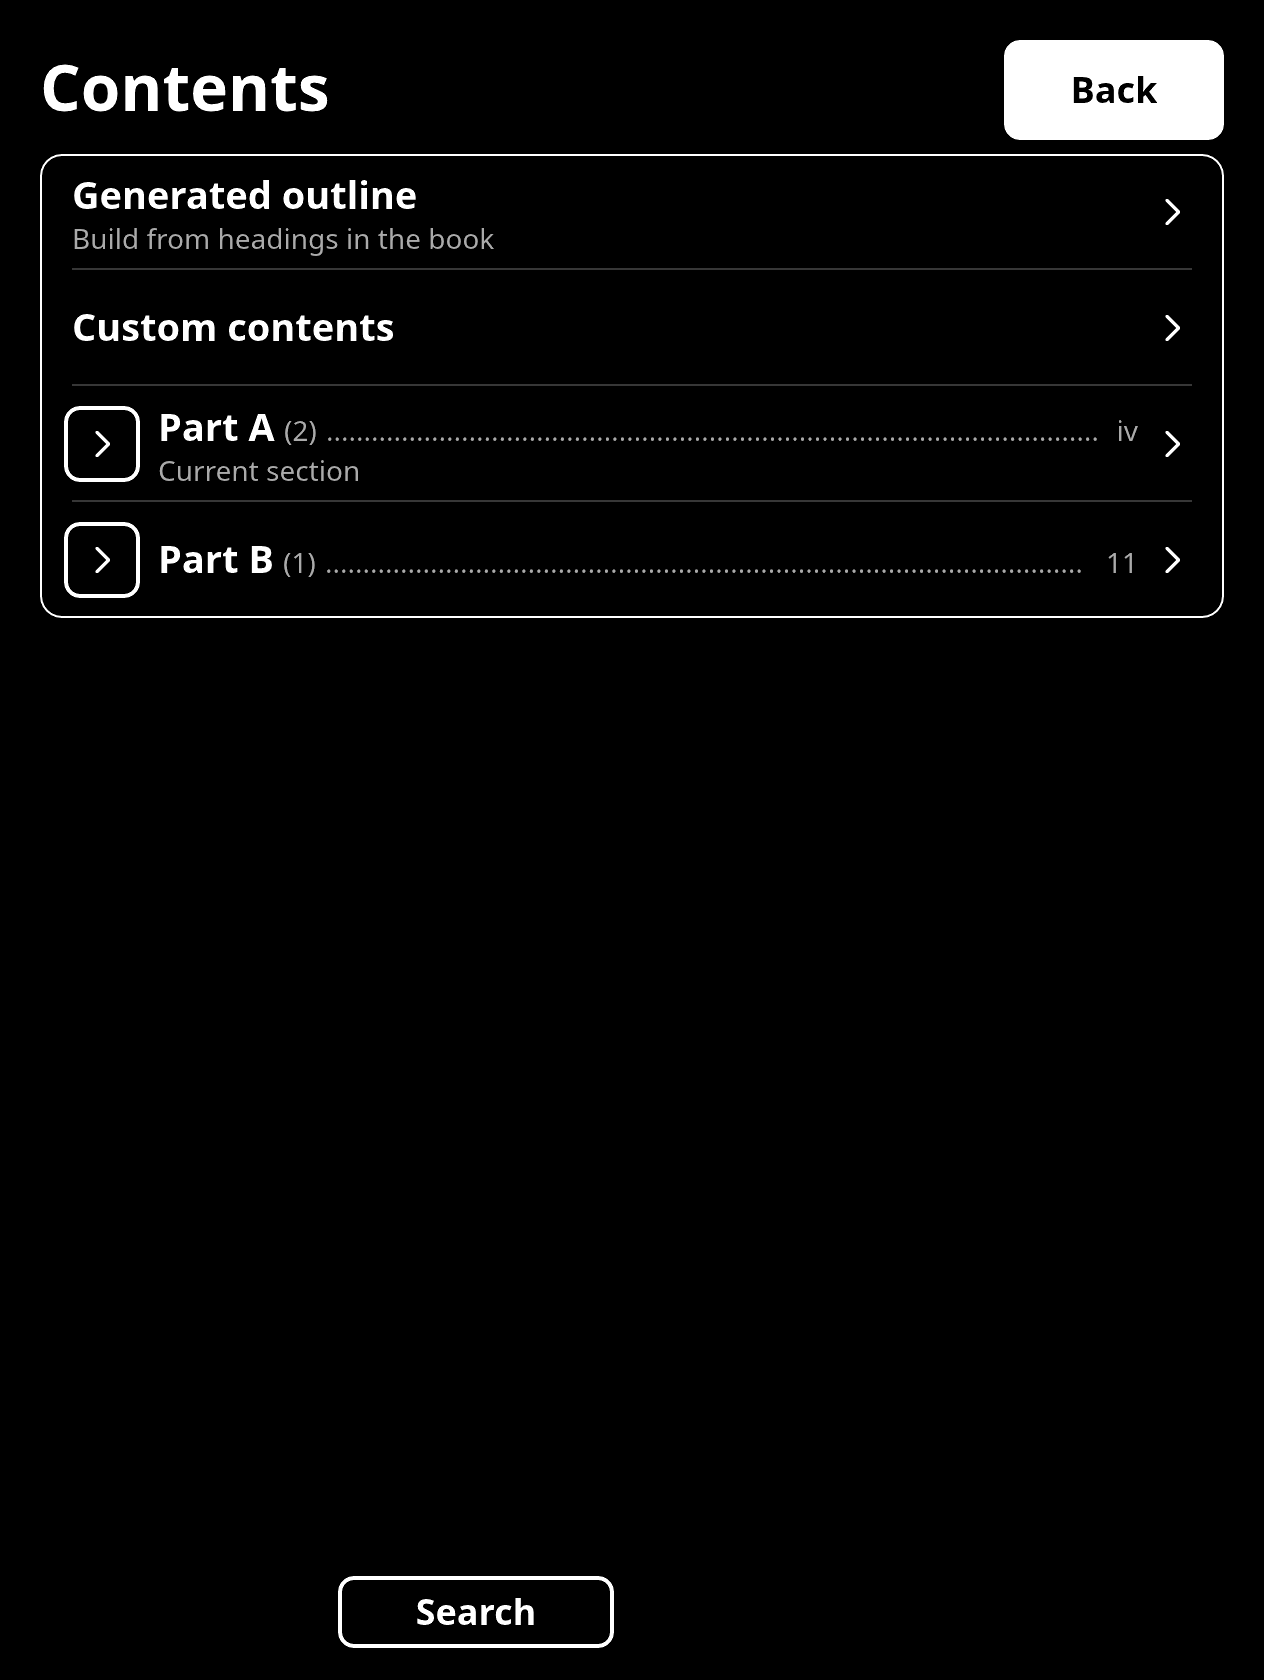
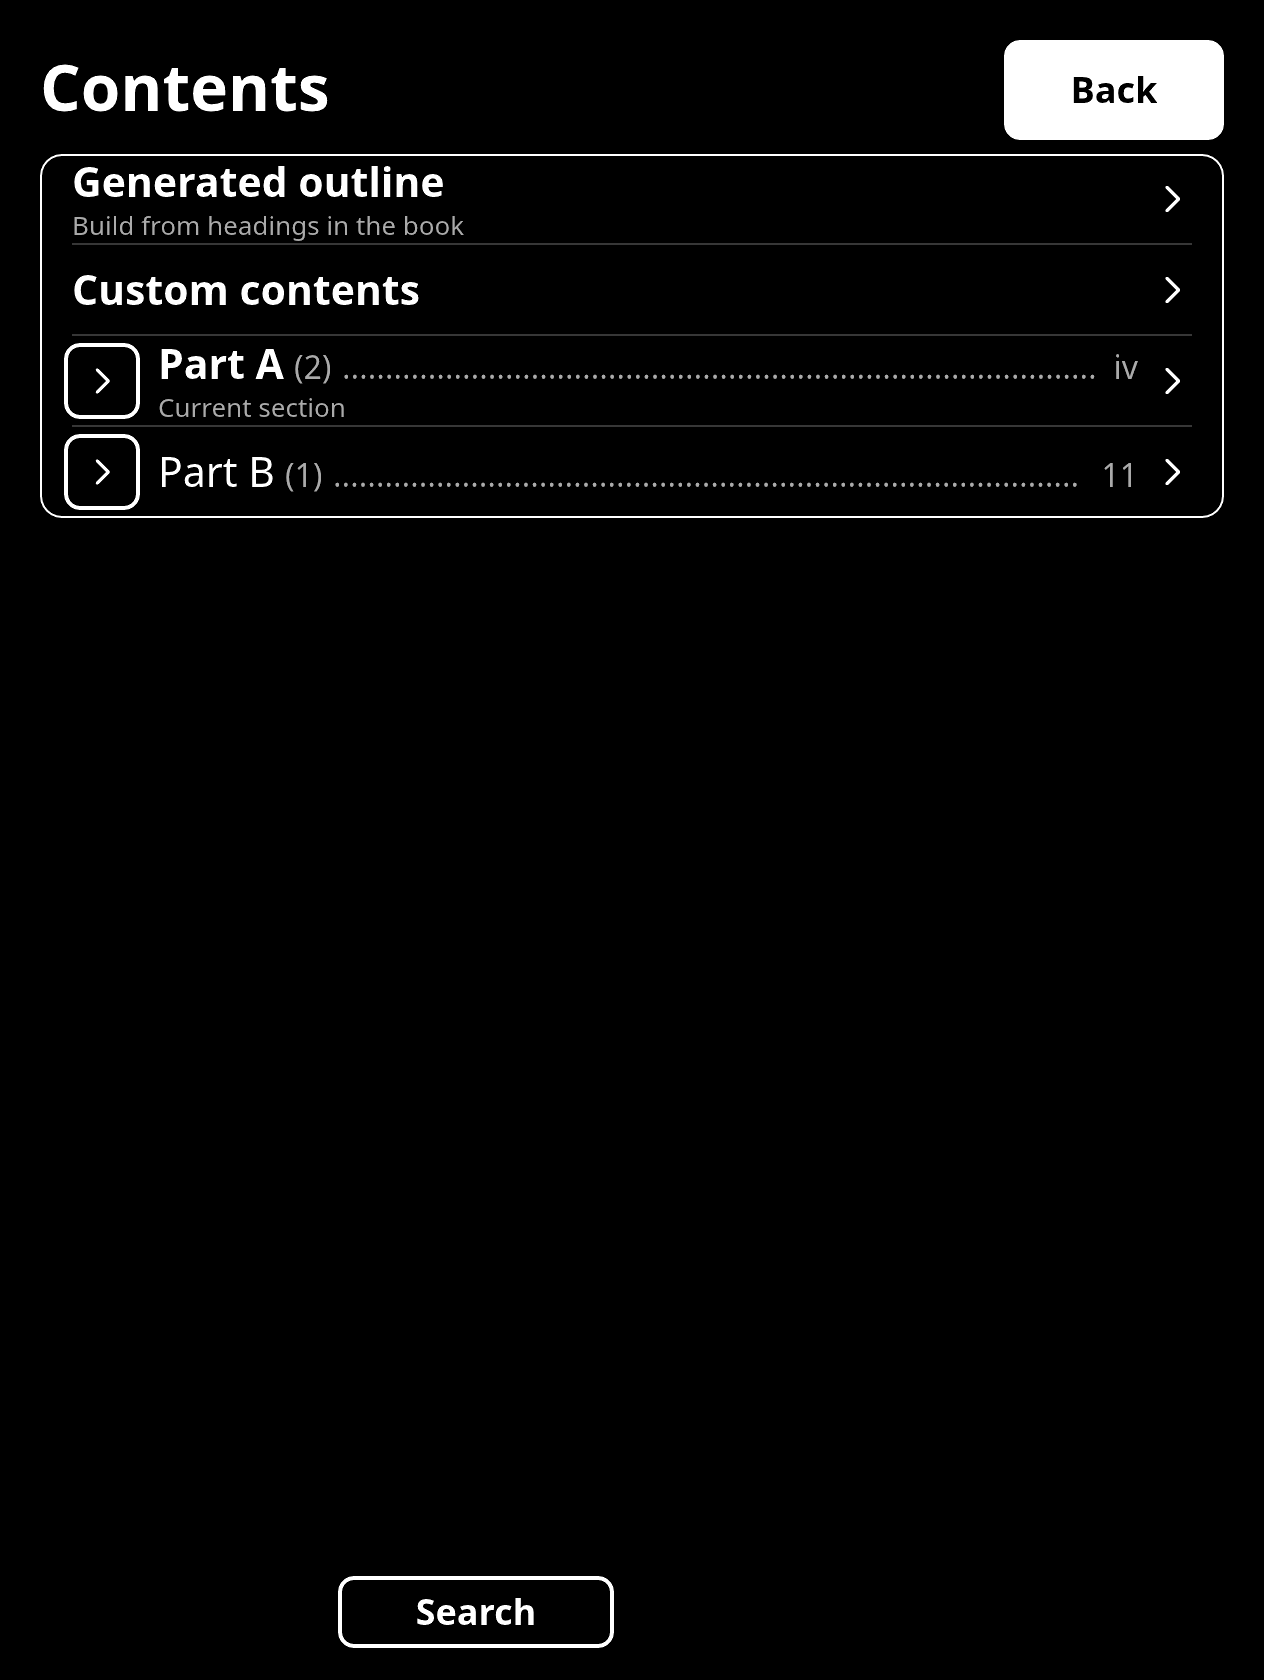
Capture the verified dense Contents layout

Changed region(s): [[0.0309, 0.0929, 0.8948, 0.3714]]

diff --git a/docs/contents-row-metadata.md b/docs/contents-row-metadata.md
@@ -23,6 +23,9 @@ reference where available. [KOReader chapter length rules](https://github.com/ko
 
 The Reader workflow tests open a PDF with nested outline entries and Roman and
 decimal labels and an EPUB with publisher labels and unopened targets. They
-check the displayed values, saved settings and unchanged jump destinations.
+check the displayed values, saved settings and exact jump destinations. A
+24-row integration test enables lengths from Contents settings, checks stable
+labels and jumps from the final visible row. The captures are from the desktop
+renderer.
 
-[PDF Contents](screenshots/contents-numbered-pdf.png) · [EPUB Contents](screenshots/contents-numbered-epub.png) · [Dark mode](screenshots/contents-numbered-dark.png)
+[PDF Contents](screenshots/contents-numbered-pdf.png) · [EPUB Contents](screenshots/contents-numbered-epub.png) · [Dark mode](screenshots/contents-numbered-dark.png) · [24 rows with stable labels](screenshots/contents-numbered-dense.png)
